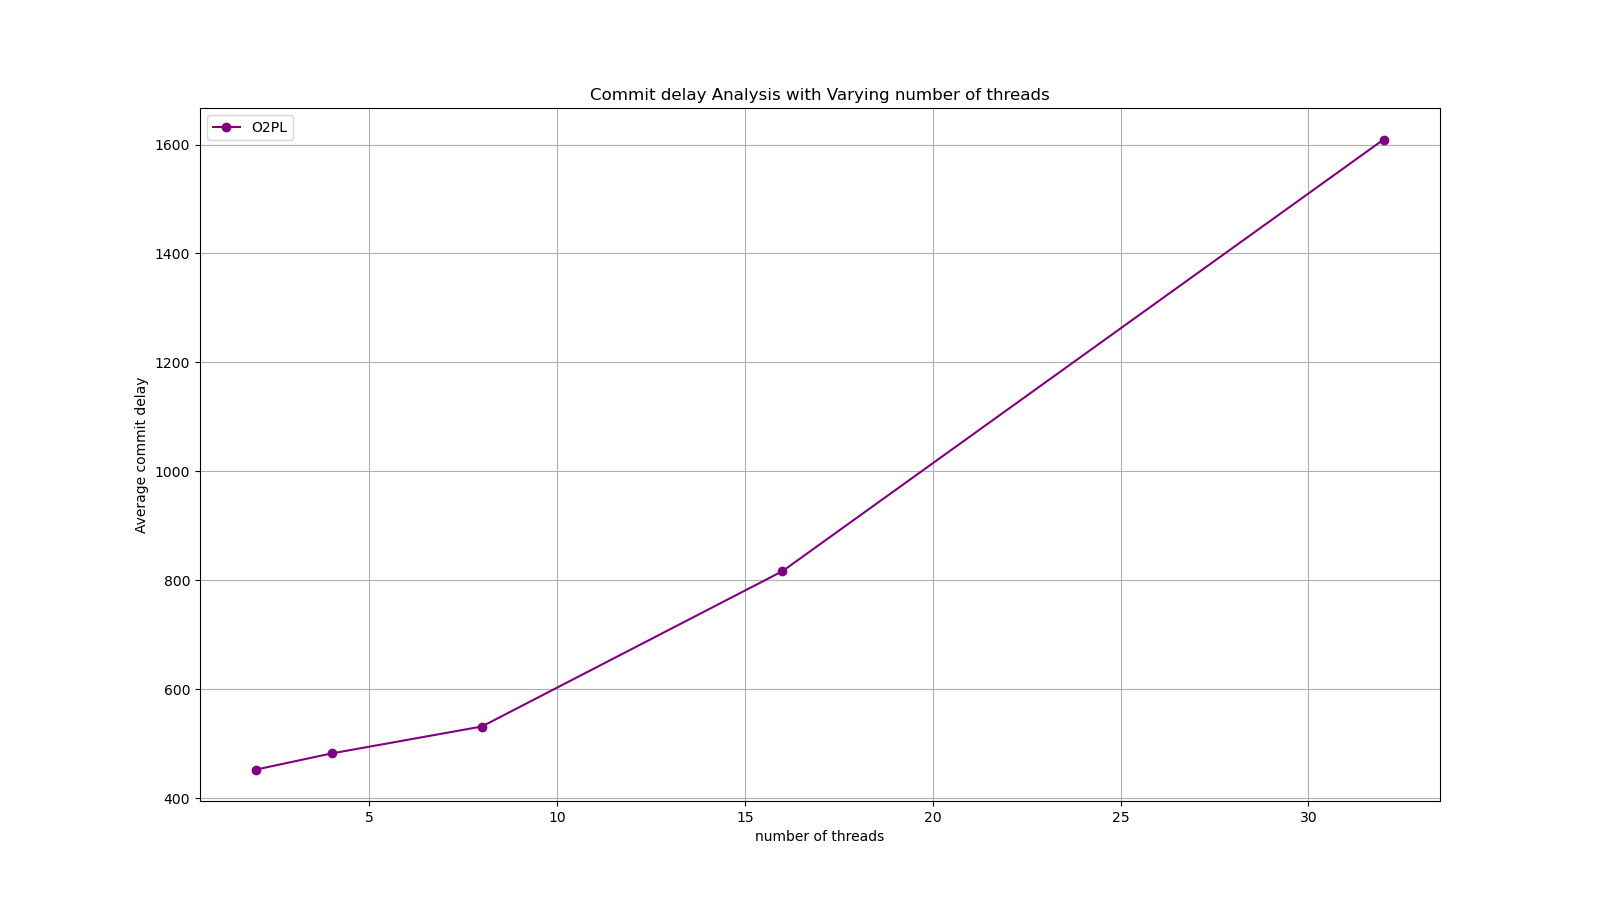
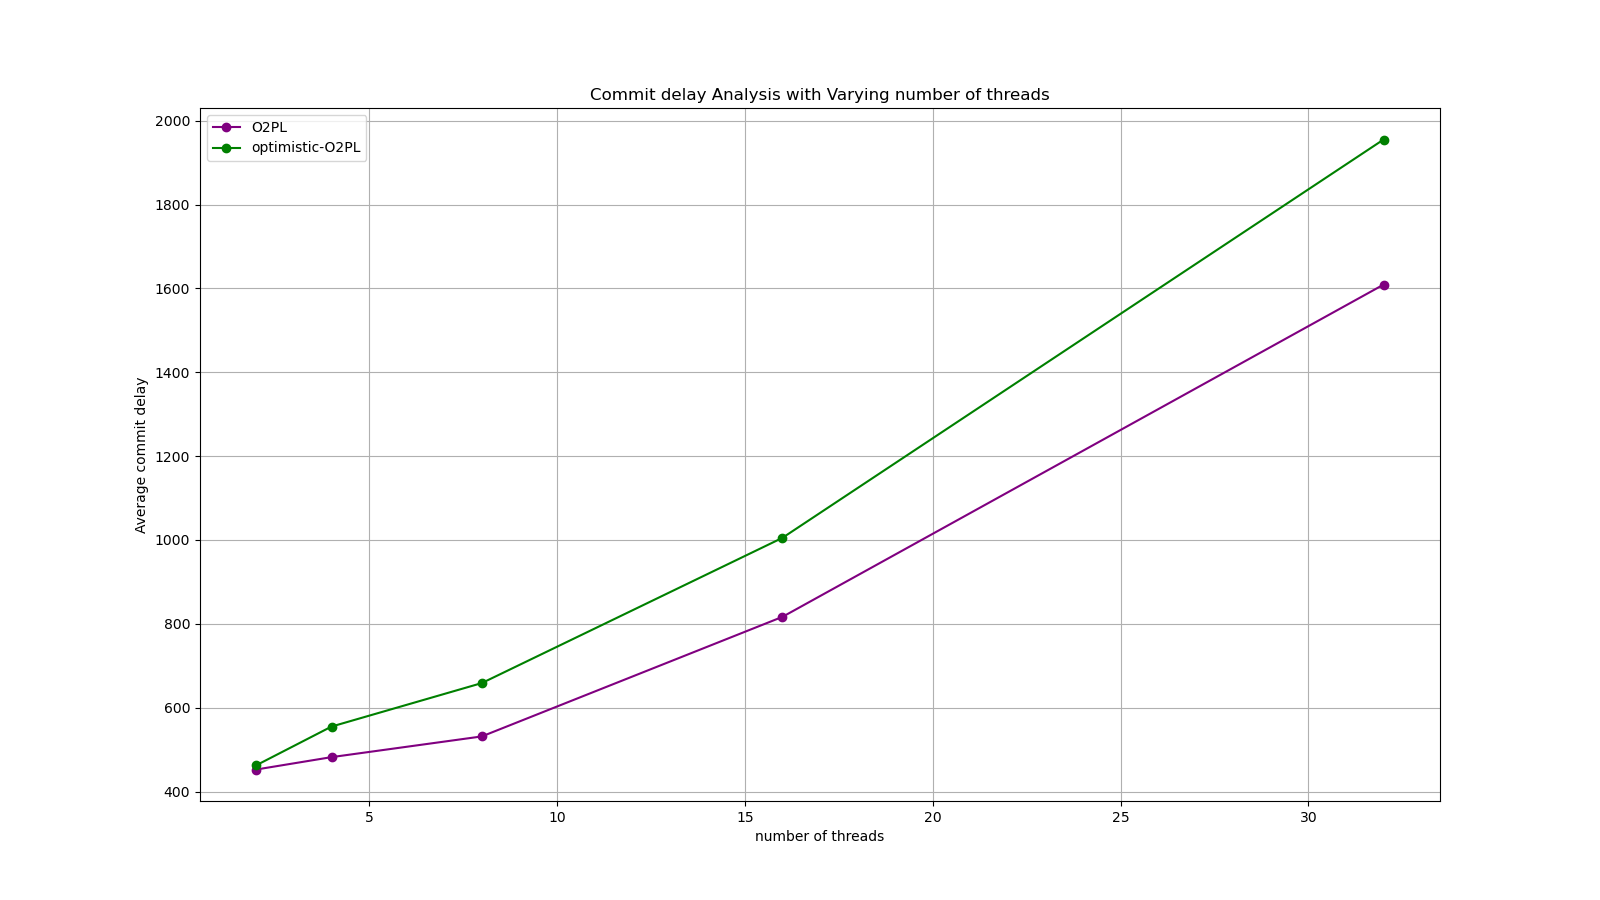
Optimistic results

diff --git a/analysis/E2_abortCount.py b/analysis/E2_abortCount.py
@@ -2,11 +2,12 @@
 
 import matplotlib.pyplot as plt
 import os
+import numpy as np
 
 # Data
 variables = [1000, 2000, 3000, 4000, 5000]
 O2PL = [0.452, 0.17, 0.062, 0.048, 0.022]
-OO2PL = []
+OO2PL = [0.392, 0.398, 0.33, 0.274, 0.232]
 
 # make a big plot
 plt.figure(figsize=(16, 9))
@@ -14,6 +15,8 @@ plt.figure(figsize=(16, 9))
 # plot data
 plt.plot(variables, O2PL, label='O2PL', marker='o', color='purple')
 plt.plot(variables, OO2PL, label='optimistic-O2PL', marker='o', color='green')
+
+plt.yticks(np.arange(0, 1, 0.1)) 
 
 # show grid lines
 plt.grid(True)

diff --git a/analysis/E3_abortCount.py b/analysis/E3_abortCount.py
@@ -2,18 +2,21 @@
 
 import matplotlib.pyplot as plt
 import os
+import numpy as np
 
 # Data
 numThreads = [2, 4, 8, 16, 32]
 O2PL =[0.016, 0.05, 0.09, 0.19, 0.418]
-OO2PL = []
+OO2PL = [0.038, 0.172, 0.23, 0.398, 0.43]
 
 # make a big plot
 plt.figure(figsize=(16, 9))
 
+
 # plot data
 plt.plot(numThreads, O2PL, label='O2PL', marker='o', color='purple')
 plt.plot(numThreads, OO2PL, label='optimistic-O2PL', marker='o', color='green')
+plt.yticks(np.arange(0, 1, 0.1)) 
 
 # show grid lines
 plt.grid(True)

diff --git a/analysis/E4_abortCount.py b/analysis/E4_abortCount.py
@@ -1,13 +1,15 @@
 import matplotlib.pyplot as plt
 import os
+import numpy as np
 
 # Data
 rr = [0.5, 0.6, 0.7, 0.8, 0.9]
 O2PL =[0.926, 0.74, 0.496, 0.262, 0.11]
-OO2PL = []
+OO2PL = [0.956, 0.588, 0.432, 0.226, 0.118]
 
 # make a big plot
 plt.figure(figsize=(16, 9))
+plt.yticks(np.arange(0, 1, 0.1)) 
 
 # plot data
 plt.plot(rr, O2PL, label='O2PL', marker='o', color='purple')

diff --git a/analysis/E3_commitDelay.py b/analysis/E3_commitDelay.py
@@ -2,11 +2,12 @@
 
 import matplotlib.pyplot as plt
 import os
+import numpy as np
 
 # Data
 numThreads = [2, 4, 8, 16, 32]
 O2PL =[452.5, 481.994, 531.406, 816.576, 1609.22]
-OO2PL = []
+OO2PL = [462.706, 554.908, 658.656, 1005.07, 1955.26]
 
 # make a big plot
 plt.figure(figsize=(16, 9))

diff --git a/analysis/E1_commitDelay.py b/analysis/E1_commitDelay.py
@@ -4,7 +4,7 @@ import os
 # Data
 numTransactions = [500, 1000, 1500, 2000, 2500]
 O2PL = [2094.83, 7439.61, 18841.1, 35267.7, 53869.1]
-OO2PL  = []
+OO2PL  = [2033.82, 5268.57, 9081.06, 9962, 9553.87]
 
 # make a big plot
 plt.figure(figsize=(16, 9))

diff --git a/analysis/E1_abortCount.py b/analysis/E1_abortCount.py
@@ -5,7 +5,7 @@ import numpy as np
 # Data
 numTransactions = [500, 1000, 1500, 2000, 2500]
 O2PL = [0.522, 0.515, 0.500667, 0.469, 0.494]
-OO2PL = []
+OO2PL = [0.43, 0.423, 0.42733, 0.406, 0.4128]
 
 # make a big plot
 plt.figure(figsize=(16, 9))

diff --git a/analysis/E2_commitDelay.py b/analysis/E2_commitDelay.py
@@ -6,7 +6,7 @@ import os
 # Data
 variables = [1000, 2000, 3000, 4000, 5000]
 O2PL = [1796.42, 855.366, 670.534, 607.568, 521.158]
-OO2PL = []
+OO2PL = [2694.56, 1478.1, 1290.2, 1148.55, 970.73]
 
 # make a big plot
 plt.figure(figsize=(16, 9))

diff --git a/analysis/E4_commitDelay.py b/analysis/E4_commitDelay.py
@@ -4,7 +4,7 @@ import os
 # Data
 rr = [0.5, 0.6, 0.7, 0.8, 0.9]
 O2PL =[5335.73, 3516.02, 2274.64, 1017.08, 649.33]
-OO2PL = []
+OO2PL = [8297.01, 3284.12, 1972.84, 986.074, 629.014]
 
 # make a big plot
 plt.figure(figsize=(16, 9))
